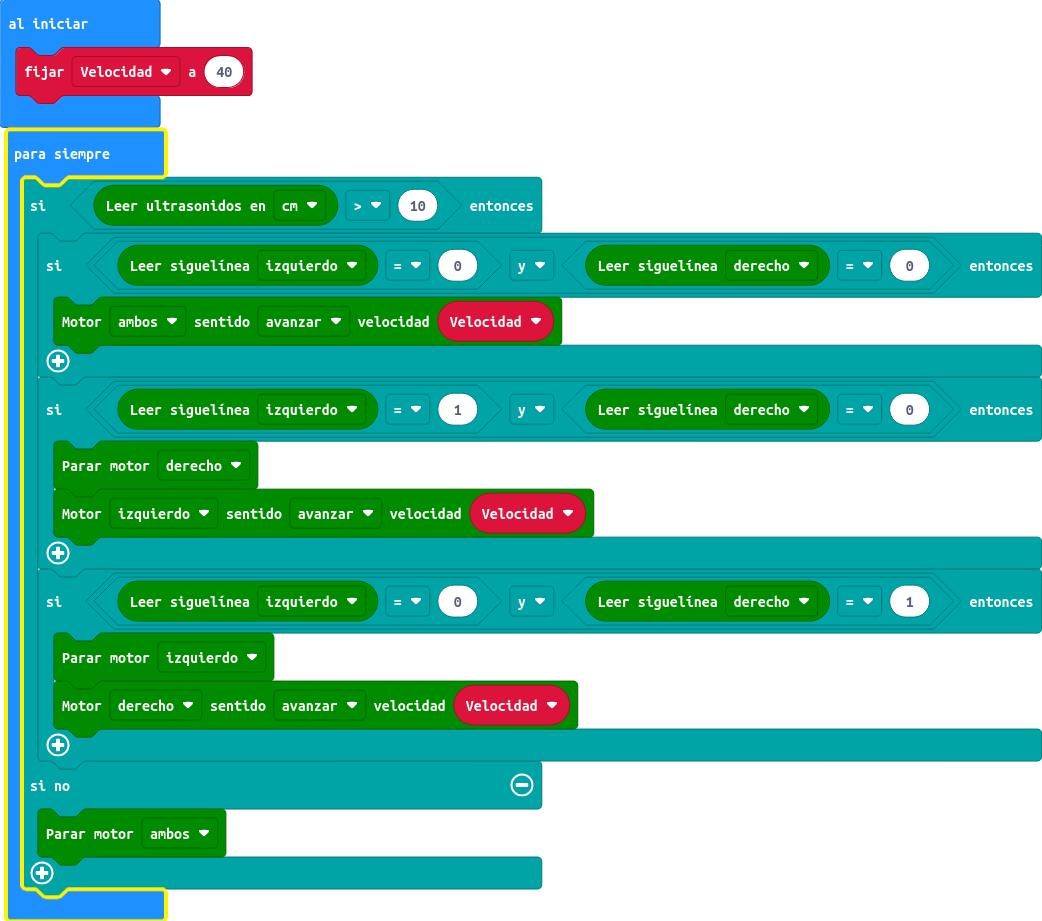
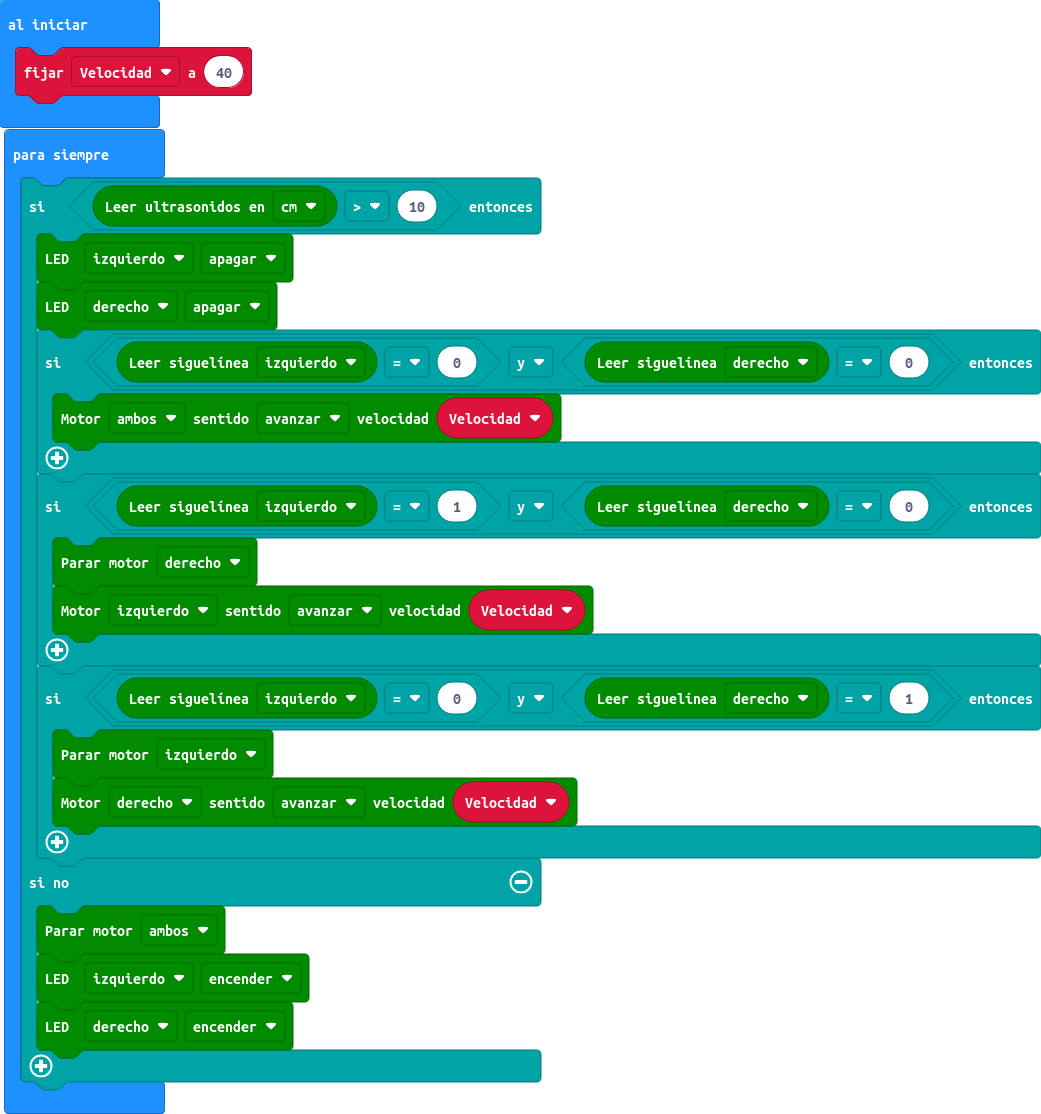
Actualizar main.blocks, main.ts

diff --git a/main.ts b/main.ts
@@ -1,6 +1,8 @@
 let Velocidad = 40
 basic.forever(function () {
     if (maqueen.Ultrasonic(PingUnit.Centimeters) > 10) {
+        maqueen.writeLED(maqueen.LED.LEDLeft, maqueen.LEDswitch.turnOff)
+        maqueen.writeLED(maqueen.LED.LEDRight, maqueen.LEDswitch.turnOff)
         if (maqueen.readPatrol(maqueen.Patrol.PatrolLeft) == 0 && maqueen.readPatrol(maqueen.Patrol.PatrolRight) == 0) {
             maqueen.motorRun(maqueen.Motors.All, maqueen.Dir.CW, Velocidad)
         }
@@ -14,5 +16,7 @@ basic.forever(function () {
         }
     } else {
         maqueen.motorStop(maqueen.Motors.All)
+        maqueen.writeLED(maqueen.LED.LEDLeft, maqueen.LEDswitch.turnOn)
+        maqueen.writeLED(maqueen.LED.LEDRight, maqueen.LEDswitch.turnOn)
     }
 })
